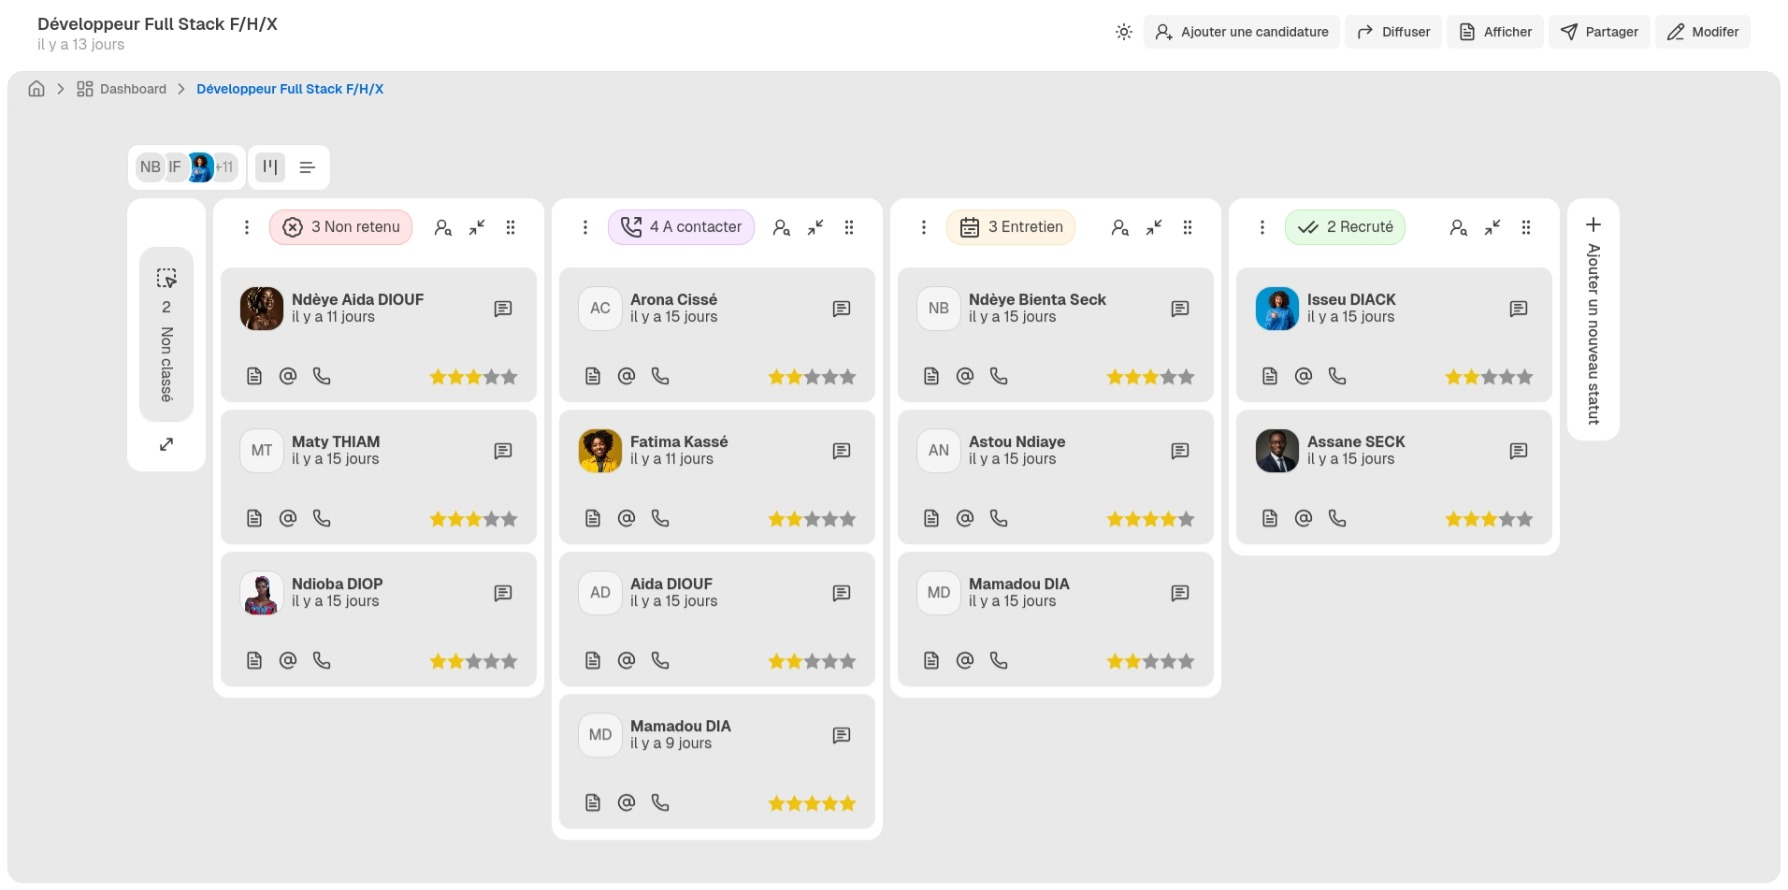
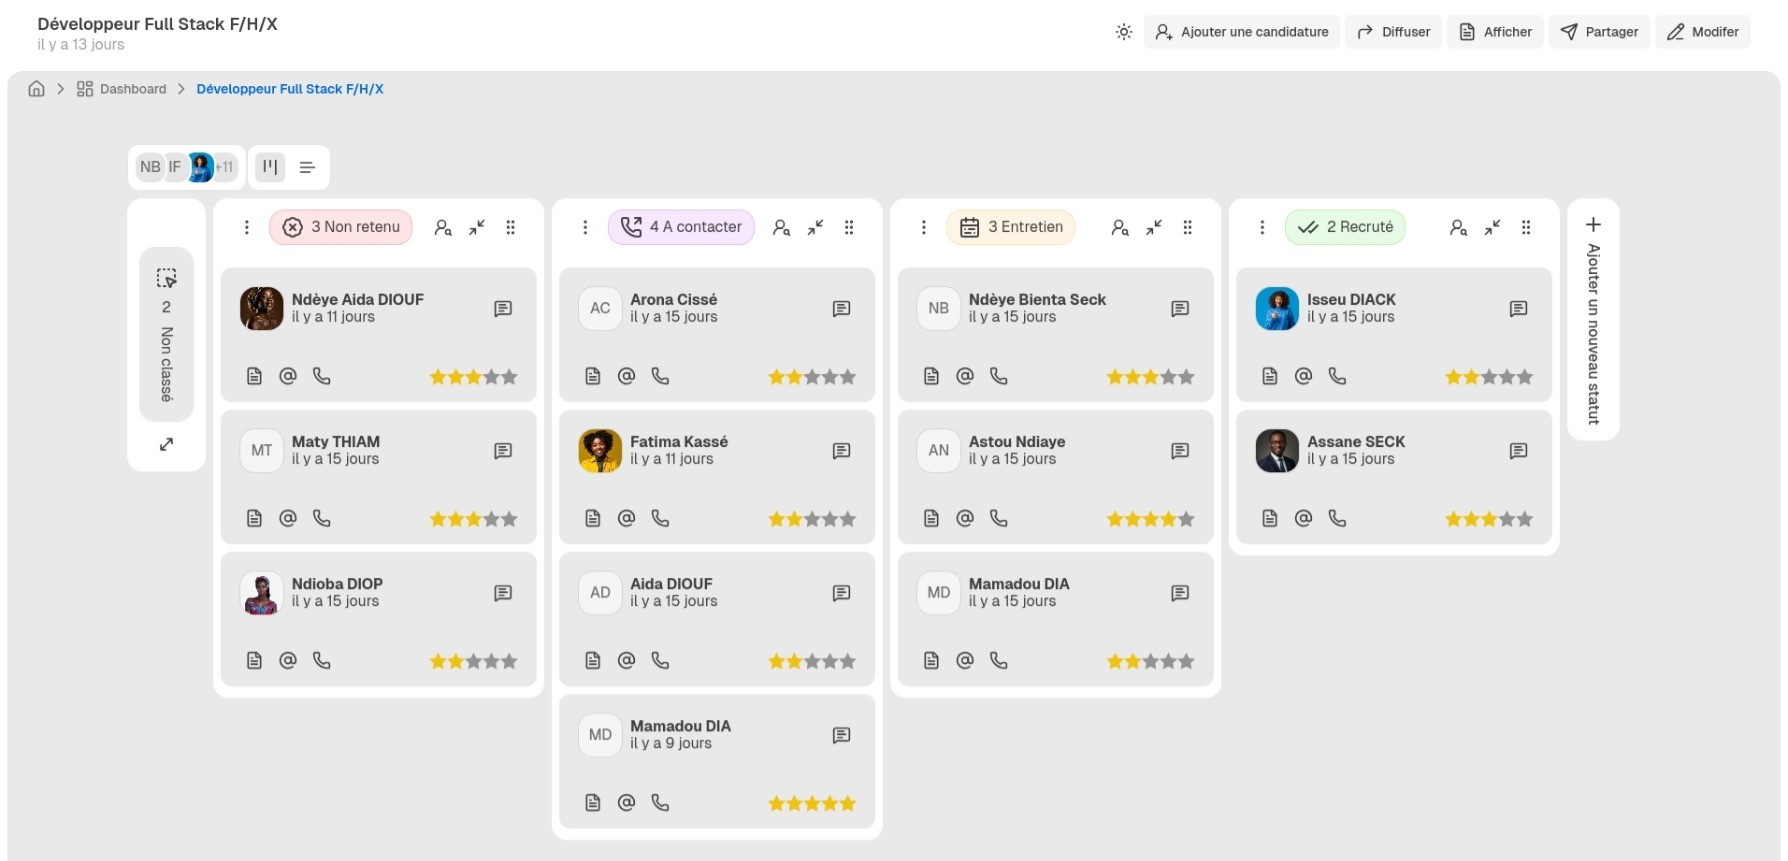
deploy

diff --git a/docs/app/pages/index.vue b/docs/app/pages/index.vue
@@ -9,7 +9,24 @@ const advantages = {
 </script>
 
 <template>
-  <Container>
+  <Container :ui="{ content: 'min-h-[75vh]' }">
+    <template #top>
+      <div class="absolute left-0 w-full top-0 bottom-0 bg-">
+        <div class="absolute inset-0 object-cover object-center">
+          <img
+            src="/images/bloom.png"
+            class="size-full object-cover object-center"
+          />
+
+          <div class="absolute backdrop-blur-2xl inset-0 bg-default/90"></div>
+        </div>
+
+        <div
+          class="absolute bottom-0 h-100 w-full bg-linear-to-b from-transparent to-body"
+        ></div>
+      </div>
+    </template>
+
     <u-container class="py-36 text-center">
       <h1 class="text-4xl md:text-6xl font-bold max-w-200 mx-auto">
         <MDC :value="$t('pages.index.hero.title')" unwrap="p" />
@@ -145,7 +162,7 @@ const advantages = {
                   class="size-full flex items-center justify-center bg-primary absolute top-0 right-0 rounded-full group-hover/opensource:hidden"
                 >
                   <u-icon
-                    name="i-lucide-arrow-right"
+                    name="i-lucide-arrow-up-right"
                     class="size-10 text-black"
                   />
                 </div>

diff --git a/docs/app/layouts/docs.vue b/docs/app/layouts/docs.vue
@@ -4,7 +4,10 @@
   <!-- <UContainer class="max-w-full px-0 sm:px-0 lg:px-0 min-h-screen relative">
   </UContainer> -->
 
-  <UPage class="ui-docs-page min-h-screen" :ui="{ left: 'max-w-75' }">
+  <UPage
+    class="ui-docs-page min-h-screen bg-default"
+    :ui="{ left: 'max-w-75' }"
+  >
     <Container :ui="{ container: 'min-h-screen' }">
       <template #left>
         <UPageAside
@@ -18,7 +21,7 @@
         >
           <div class="sticky top-0 z-10">
             <div
-              class="h-(--ui-header-height) flex items-center px-5 bg-linear-to-b from-body to-transparent"
+              class="h-(--ui-header-height) flex items-center px-5 bg-linear-to-b from-default to-transparent"
             ></div>
           </div>
 
@@ -34,7 +37,7 @@
 
       <Container
         :ui="{
-          content: 'bg-body',
+          content: 'bg-default',
           root: 'sticky top-0 z-51',
         }"
       >

diff --git a/docs/app/components/AppFooter.vue b/docs/app/components/AppFooter.vue
@@ -64,20 +64,22 @@ const { footer } = useAppConfig();
     </template>
 
     <template #left>
-      <MDC :value="footer.credits" unwrap="p" />
+      <div class="flex items-center gap-2">
+        © {{ new Date().getFullYear() }}
+
+        <u-link
+          to="https://domutala.netlify.app"
+          target="_blank"
+          class="font-bold text-highlighted underline"
+        >
+          domutala
+        </u-link>
+      </div>
     </template>
 
     <template #right>
       <AppLocale />
       <AppTheme v-if="footer?.colorMode" />
-
-      <!-- <template v-if="footer?.links">
-          <UButton
-            v-for="(link, index) of footer?.links"
-            :key="index"
-            v-bind="{ color: 'neutral', variant: 'ghost', ...link }"
-          />
-        </template> -->
     </template>
   </UFooter>
 </template>

diff --git a/docs/app/components/AppLogo.vue b/docs/app/components/AppLogo.vue
@@ -1,10 +1,16 @@
 <template>
-  <div class="flex items-center gap-1.5 group">
-    <u-icon name="i-simple-icons-okta" class="text-primary size-8" />
+  <div class="flex items-center gap-2 group select-none">
+    <div
+      class="h-8.5 aspect-square flex items-center justify-center bg-primary rounded- border border-primary-600/30 text-black"
+    >
+      <u-icon name="i-lucide-bookmark-check" class="size-8/12" />
+    </div>
 
-    <div class="font-black text-[20px] select-none">
-      <span class="opacity-50 uppercase">Wor</span>
-      <span class="uppercase">cable</span>
+    <!-- <u-icon name="i-simple-icons-okta" class="text-primary size-8" /> -->
+
+    <div class="font-bold text-[24px]">
+      <span class="opacity-50 uppercase">Worc</span>
+      <span class="uppercase">able</span>
     </div>
   </div>
 </template>

diff --git a/docs/app/layouts/default.vue b/docs/app/layouts/default.vue
@@ -46,7 +46,7 @@
           variant="soft"
           color="primary"
           size="xl"
-          class="button mt-5 px-5 py-3 cursor-pointer bg-black text-white hover:bg-primary-950"
+          class="button mt-5 px-7 py-4 rounded-xl cursor-pointer bg-black text-white hover:bg-primary-950"
           icon="i-lucide-video"
         >
           {{ $t("book_demo.cta") }}

diff --git a/docs/app/app.config.ts b/docs/app/app.config.ts
@@ -41,7 +41,6 @@ export default defineAppConfig({
     ],
   },
   footer: {
-    credits: `© ${new Date().getFullYear()} - by [domutala](https://github.com/domutala)`,
     colorMode: true,
     links: [
       {

diff --git a/docs/content/en/docs/1.getting-started/3.docker.md b/docs/content/en/docs/1.getting-started/3.docker.md
@@ -1,0 +1,64 @@
+---
+title: Deployment with Docker
+description: This section explains how to configure and launch the Worcable project using Docker and Docker Compose.
+---
+
+This documentation details the procedure to configure and launch the **Worcable** ecosystem using Docker.
+
+
+## Prerequisites
+
+Ensure the following tools are installed on your machine:
+
+* **Docker** (v20.10 or higher)
+* **Docker Compose** (v2.0 or higher)
+
+
+## Using the Launch Script
+
+A `run.sh` script is located in the `deploy/` folder to automate Docker profile management.
+
+### Initialization
+Grant execution permissions to the script:
+```bash
+chmod +x deploy/run.sh
+```
+
+### Main Commands
+
+The script accepts the `--project` parameter to define the launch scope. Default is `all`.
+
+| Command | Description |
+| :--- | :--- |
+| `./deploy/run.sh` | Launches all services (Nuxt, Database, CV Parser). |
+| `./deploy/run.sh --project db` | Launches Nuxt and Database. |
+| `./deploy/run.sh --project parser` | Launches Nuxt and the CV Parser. |
+| `./deploy/run.sh --project base` | Launches Nuxt only. |
+
+### Stopping and Logs
+
+| Action | Command |
+| :--- | :--- |
+| **Stop** | `./deploy/run.sh --stop` |
+| **Logs** | `./deploy/run.sh --logs` |
+
+## Technical Configuration
+
+### Customizing Ports
+You can change the default ports by creating a `.env` file at the root of the project:
+
+```env
+PORT=8080
+DATABASE_URL=27018
+CV_PARSER_PORT=5001
+```
+
+### Default Network Access
+By default, services are exposed as follows:
+* **Nuxt Frontend**: `http://localhost:3000`
+* **Database**: `localhost:27017`
+* **CV Parser**: `localhost:5000`
+
+### Build and Updates
+The `run.sh` script automatically includes the `--build` flag. Any changes to the source code (Nuxt or Python) will be applied upon restart.
+

diff --git a/docs/content/en/docs/5.deployment/2.docker.md b/docs/content/en/docs/5.deployment/2.docker.md
@@ -1,0 +1,64 @@
+---
+title: Deployment with Docker
+description: This section explains how to configure and launch the Worcable project using Docker and Docker Compose.
+---
+
+This documentation details the procedure to configure and launch the **Worcable** ecosystem using Docker.
+
+
+## Prerequisites
+
+Ensure the following tools are installed on your machine:
+
+* **Docker** (v20.10 or higher)
+* **Docker Compose** (v2.0 or higher)
+
+
+## Using the Launch Script
+
+A `run.sh` script is located in the `deploy/` folder to automate Docker profile management.
+
+### Initialization
+Grant execution permissions to the script:
+```bash
+chmod +x deploy/run.sh
+```
+
+### Main Commands
+
+The script accepts the `--project` parameter to define the launch scope. Default is `all`.
+
+| Command | Description |
+| :--- | :--- |
+| `./deploy/run.sh` | Launches all services (Nuxt, Database, CV Parser). |
+| `./deploy/run.sh --project db` | Launches Nuxt and Database. |
+| `./deploy/run.sh --project parser` | Launches Nuxt and the CV Parser. |
+| `./deploy/run.sh --project base` | Launches Nuxt only. |
+
+### Stopping and Logs
+
+| Action | Command |
+| :--- | :--- |
+| **Stop** | `./deploy/run.sh --stop` |
+| **Logs** | `./deploy/run.sh --logs` |
+
+## Technical Configuration
+
+### Customizing Ports
+You can change the default ports by creating a `.env` file at the root of the project:
+
+```env
+PORT=8080
+DATABASE_URL=27018
+CV_PARSER_PORT=5001
+```
+
+### Default Network Access
+By default, services are exposed as follows:
+* **Nuxt Frontend**: `http://localhost:3000`
+* **Database**: `localhost:27017`
+* **CV Parser**: `localhost:5000`
+
+### Build and Updates
+The `run.sh` script automatically includes the `--build` flag. Any changes to the source code (Nuxt or Python) will be applied upon restart.
+
